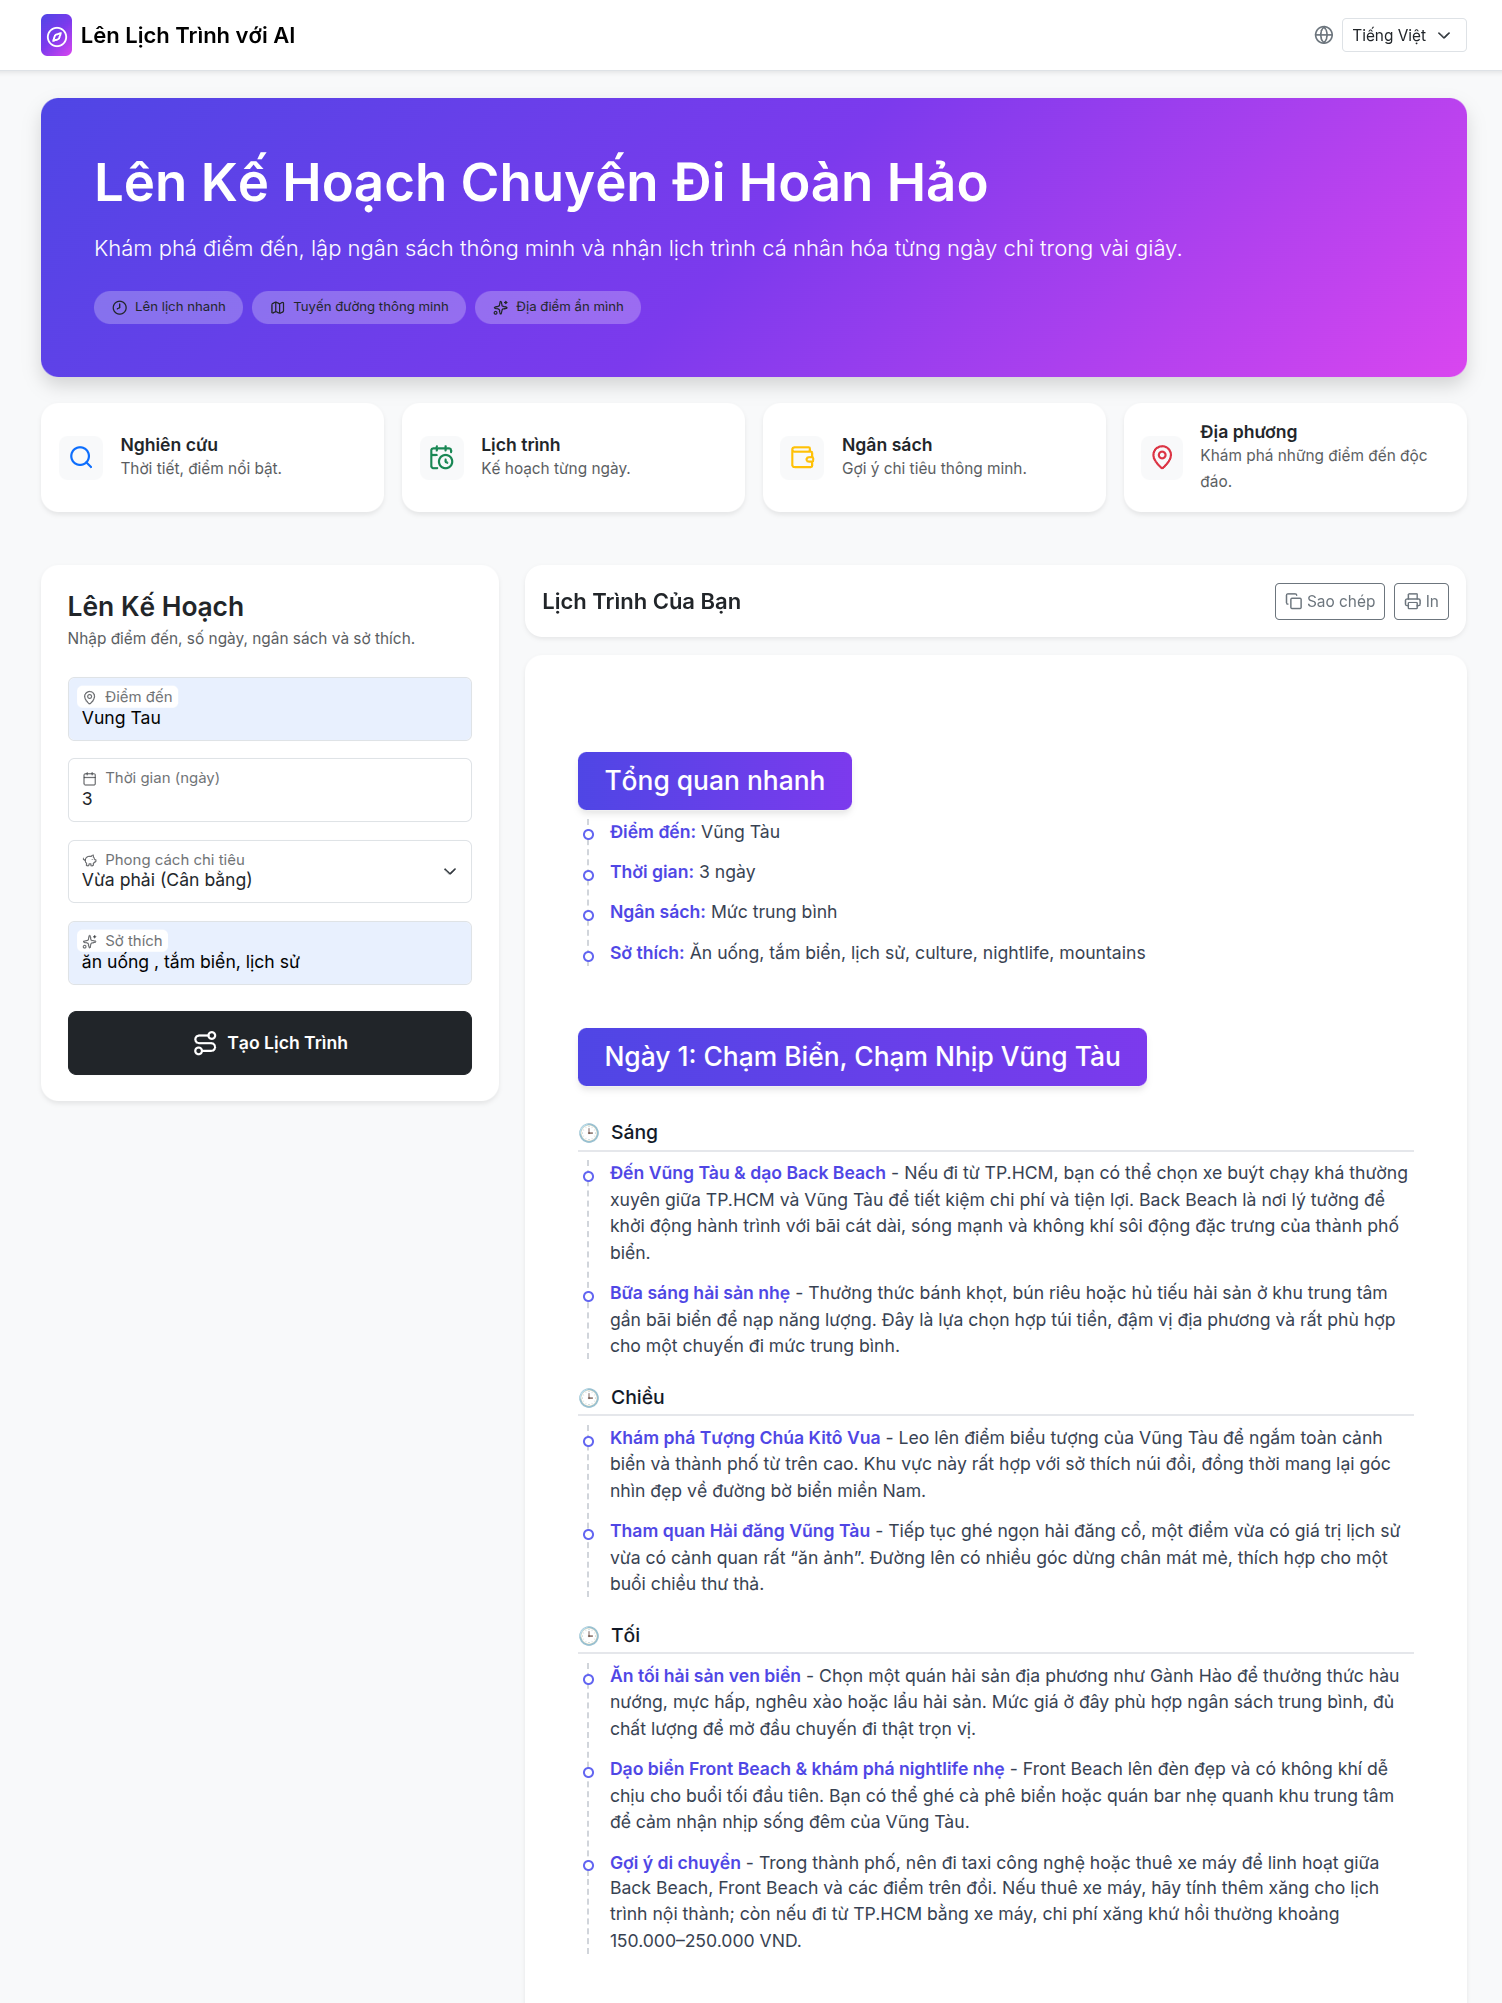
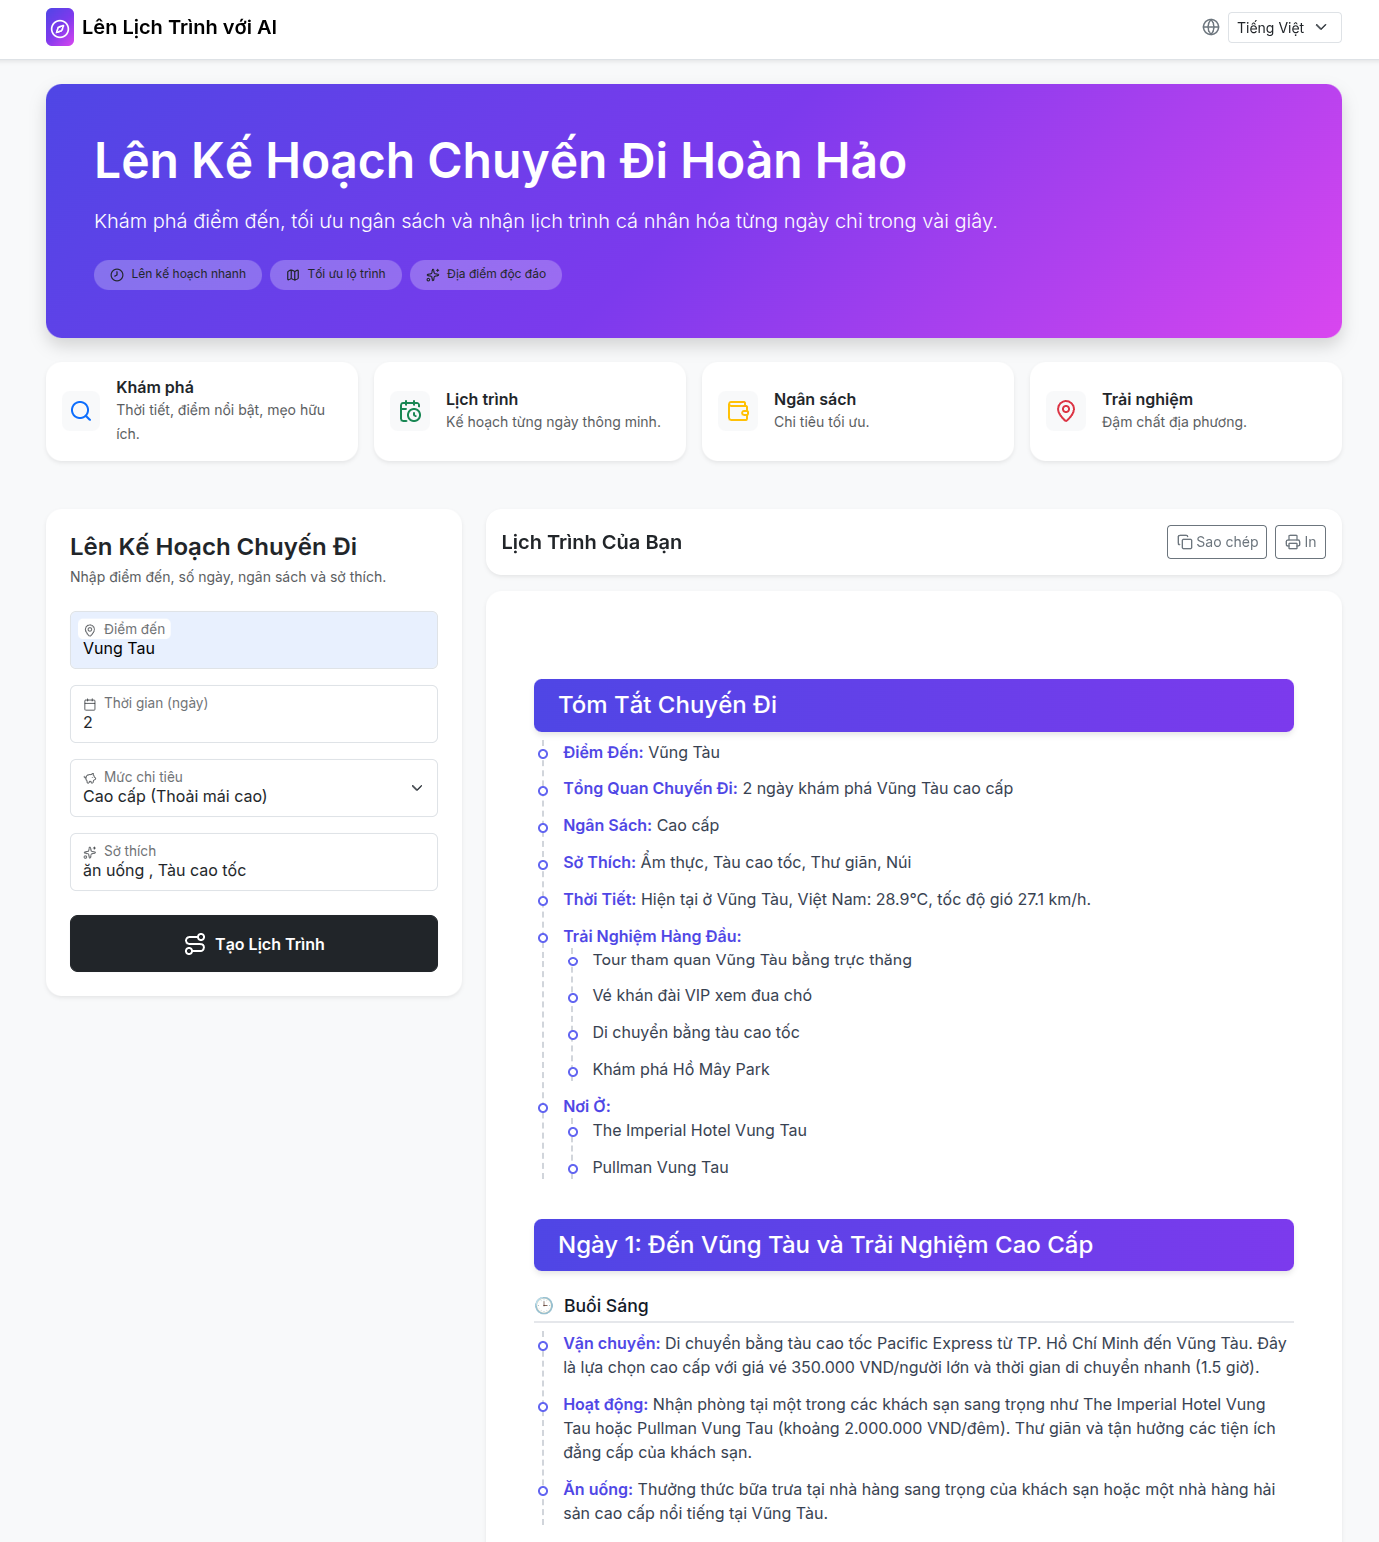
update doc

diff --git a/README.md b/README.md
@@ -19,80 +19,60 @@ This system demonstrates how to build "Privacy-First" personalized AI by integra
 
 ## 🏗️ System Architecture
 
-![Project Flow](project-flow.png)
 
+```mermaid
+graph TD
+    %% Entry Layer
+    subgraph Gateway [The Request Gateway]
+        Input([TripRequest Pydantic Model]) -- destination, budget, user_id --> API[FastAPI Endpoints]
+        API -- session_id / trace_id --> Trace[[Arize Phoenix Tracing]]
+    end
 
-```text
-┌─────────────────────────────────────────────────────────────────┐
-│                        User Request                             │
-│               (destination, duration, user_id)                  │
-└────────────────────────────────┬────────────────────────────────┘
-                                 │
-                   ┌─────────────▼─────────────┐
-                   │    FastAPI + Phoenix      │
-                   │    Session & Trace ID     │
-                   └─────────────┬─────────────┘
-                                 │
-                   ┌─────────────▼─────────────┐
-                   │   LangGraph Workflow      │
-                   │   (Entry: START Node)     │
-                   └─────────────┬─────────────┘
-                                 │
-                   ┌─────────────▼─────────────┐
-                   │    Data Service Loader    │
-                   │  (LEO CDP / Postgres 16)  │
-                   └─────────────┬─────────────┘
-                                 │
-        ┌────────────────────────┼────────────────────────┐
-        │                        │                        │
-   ┌────▼─────┐           ┌──────▼─────┐           ┌──────▼─────┐
-   │ Research │           │   Budget   │           │   Weather  │
-   │  Agent   │           │   Agent    │           │   Agent    │
-   └────┬─────┘           └──────┬─────┘           └──────┬─────┘
-        │                        │                        │
-        │                        │                        │
-        │                        │                        │
-        │   ┌────────────────────▼──────────────────┐     │
-        │   │   Knowledge Database (Postgres 16)    │     │
-        │   │  - pgvector similarity search         │     │
-        │   │  - destination info (POIs, safety)    │     │
-        │   │  - cost data (food, hotel, transport) │     │
-        │   │  - metadata (budget tiers, tags)      │     │
-        │   └────────────────────┬──────────────────┘     │
-        │                        │                        │
-        │                        │                        │
-        │                        │                        │
-        │                        │              ┌─────────▼─────────┐
-        │                        │              │ Weather API Layer │
-        │                        │              │ (real-time)       │
-        │                        │              └─────────┬─────────┘
-        │                        │                        │
-        │                        │              ┌─────────▼─────────┐
-        │                        │              │ Cache (Redis)     │
-        │                        │              │ TTL: 10–30 mins   │
-        │                        │              └───────────────────┘
-        │                        │
-        └────────────────────────┼────────────────────────┘
-                                 │
-                          ┌──────▼──────┐
-                          │  Itinerary  │
-                          │   Agent     │
-                          │ (Synthesis) │
-                          └──────┬──────┘
-                                 │
-                   ┌─────────────▼─────────────┐
-                   │   JSON / Markdown Output  │
-                   │   + Tool Trace Metadata   │
-                   └───────────────────────────┘
+    %% Intelligence Layer
+    subgraph Core_Brain [LangGraph Orchestration]
+        START((START)) --> LP[load_profile Node]
+        
+        %% Hydration Logic
+        LP -- Queries cdp_profiles --> CDP[(LEO CDP: Postgres)]
+        CDP -- Hydrates State --> HydratedState[State: Profiles + Interests]
 
-     Tracing & Evals → Arize Phoenix (Local OTLP:6006)
+        %% Parallel Execution
+        HydratedState --> RA[Research Agent Node]
+        HydratedState --> BA[Budget Agent Node]
+        HydratedState --> WA[Weather Agent Node]
+
+        %% Synthesis
+        RA & BA & WA --> AGG[Aggregate Node]
+        AGG --> JP[Journey Plan Node]
+        JP --> END((END))
+    end
+
+    %% Data Strategy Layer
+    subgraph Knowledge_Memory [Self-Improving Memory Tier]
+        %% Research & Budget Logic
+        RA & BA -- RAG Logic --> RAG_S[TravelRAGService]
+        
+        RAG_S -- Vector Search --> KDB[(Knowledge DB: Postgres 16)]
+        KDB -.-> PGV[pgvector: Cosine Distance Search]
+        
+        %% Fallback Logic
+        RAG_S -- No Result --> Web[Web Search API]
+        Web -- Upsert Knowledge --> KDB
+    end
+
+   %% Third-party Data Layer
+    subgraph Realtime_Data_Sources [API Call]
+        %% Real-time Logic
+        WA -- Live Fetch --> W_API[Weather API Layer]
+        W_API -- Cache --> Redis[(Redis Cache)]
+    end
+
+    %% Output Layer
+    END --> FinalOut[/TripResponse: Markdown + Tool Trace/]
 ```
 
+
 ---
-
-## 🛠️ Quickstart with Google Colab 
-
-https://colab.research.google.com/drive/1KaLKUzFPC7uECGAHDZ7xW1LzjbdpiqQO?usp=sharing
 
 ## 🛠️ Quickstart with local python code
 
@@ -113,14 +93,7 @@ source venv/bin/activate
 pip install --upgrade pip
 pip install -r requirements.txt
 ```
-
-### 4. Terminal 1: Start Phoenix for Tracing
-```bash
-# Terminal 1: Start Phoenix for Tracing
-python -m phoenix.server.main serve
-
-```
-### 5. Terminal 2: Run the AI service
+### 4. Terminal
 
 ```bash
 # make sure you are back in the root directory of ai-trip-planner
@@ -130,7 +103,7 @@ cd ..
 cd backend && uvicorn main:app --host 0.0.0.0 --port 8000 --reload
 ```
 
-### 6. ENDPOINTS
+### 5. ENDPOINTS
 
 - Frontend: http://localhost:8000/index.html
 - API: http://localhost:8000/api/v1/trips/plan
@@ -148,7 +121,6 @@ docker-compose up --build
 - `backend/`: FastAPI app (`main.py`), LangGraph agents, tracing hooks.
 - `backend/services/`: The OOP Data Service layer (Strategy Pattern).
 - `frontend/index.html`: Minimal static UI served by backend at `/`.
-- `optional/airtable/`: Airtable integration (optional, not on critical path).
 - `test scripts/`: `test_api.py`, `synthetic_data_gen.py` for quick checks/evals.
 - Root: `start.sh`, `docker-compose.yml`, `README.md`.
 
@@ -325,4 +297,3 @@ Students have successfully adapted this codebase for:
 
 ---
 **Updated by Triều** | *Expertise in LEO CDP, RAG, and AI-Native Systems.*
-